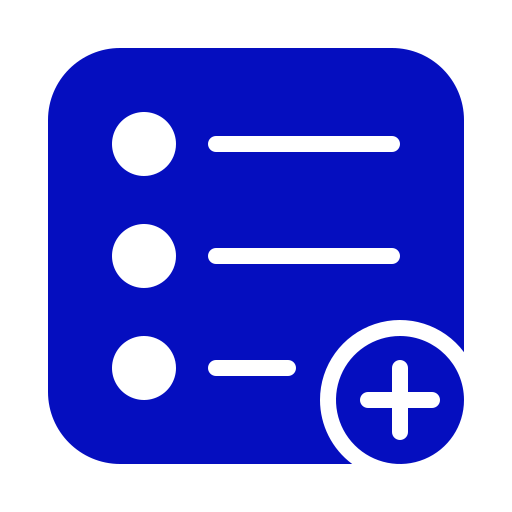
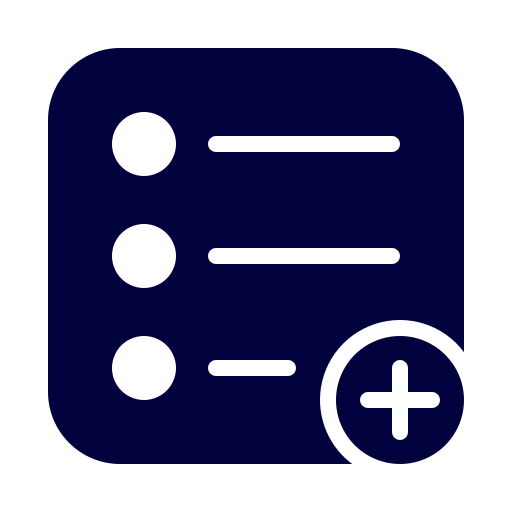
updates : herosection

diff --git a/resources/views/herosection.blade.php b/resources/views/herosection.blade.php
@@ -95,6 +95,9 @@
         padding: 0;
         box-sizing: border-box;
         }
+        body{
+            background-color: #ecf0ec;
+        }
         html {
         font-family: Rubik;
         color: #fff;
@@ -115,7 +118,7 @@
             font-family: "Myriad Pro", Arial, sans-serif;
         }
         .orbit, h3{
-            color:#050ebf;
+            color:#071952;
         }
         h3{
             margin-top: -1.2em;
@@ -157,6 +160,7 @@
         font-size: 20px;
         line-height: 1.6;
         margin-bottom: 48px;
+        color:#3C3D37;
         }
 
         .btn:link,

diff --git a/resources/views/component/sidebar.blade.php b/resources/views/component/sidebar.blade.php
@@ -88,7 +88,7 @@
         :root {
             --header-height: 3rem;
             --nav-width: 68px;
-            --first-color: #050ebf;
+            --first-color: #071952;
             --first-color-light: #a5b2d9;
             --white-color: #F7F6FB;
             --body-font: 'Nunito', sans-serif;
